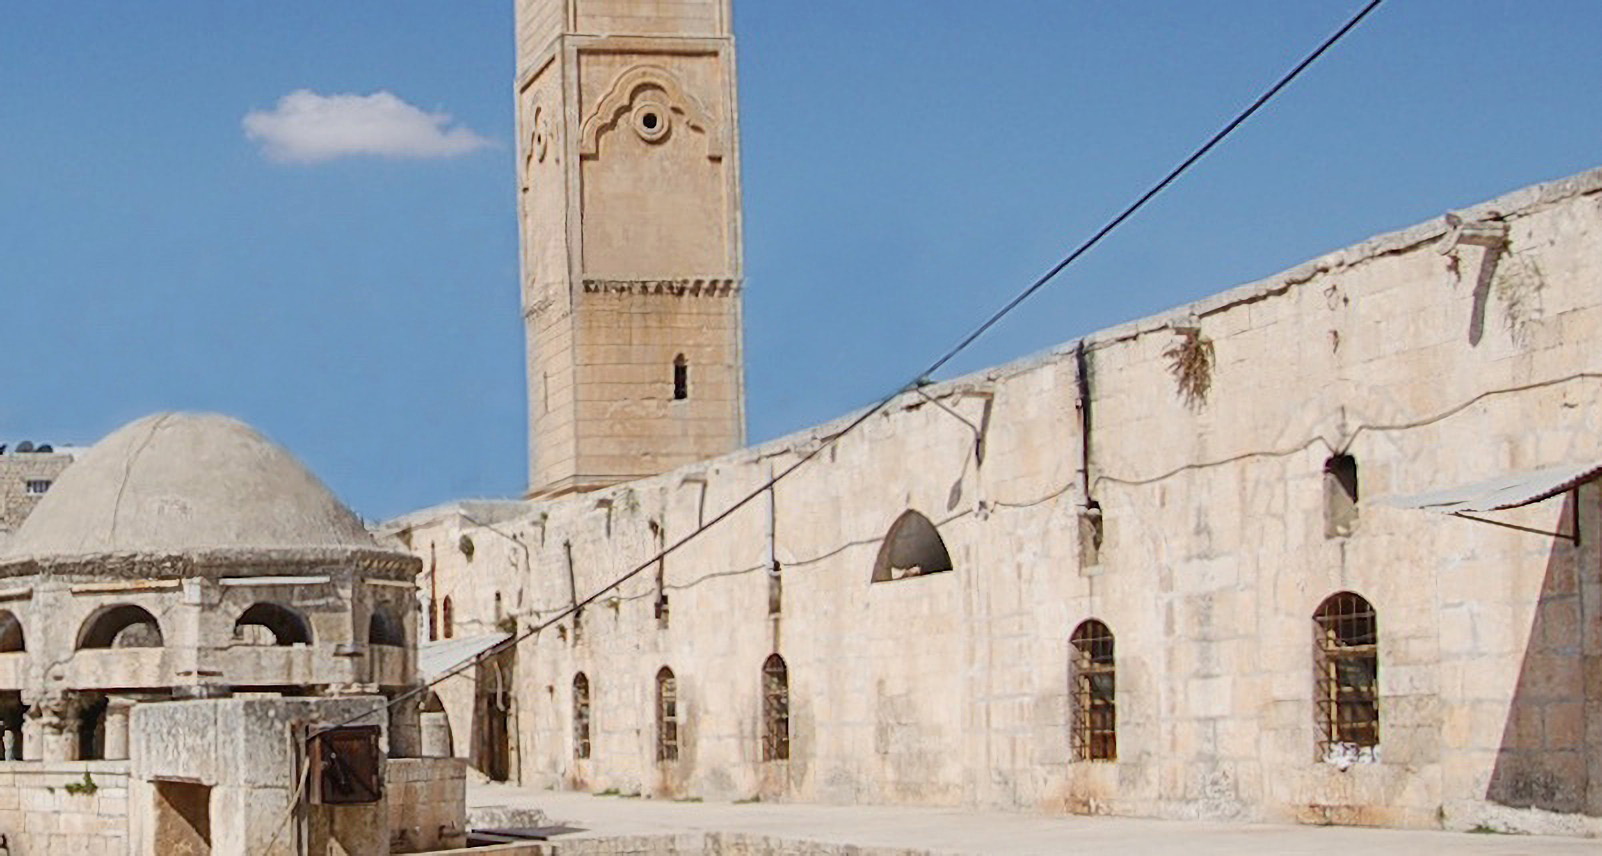
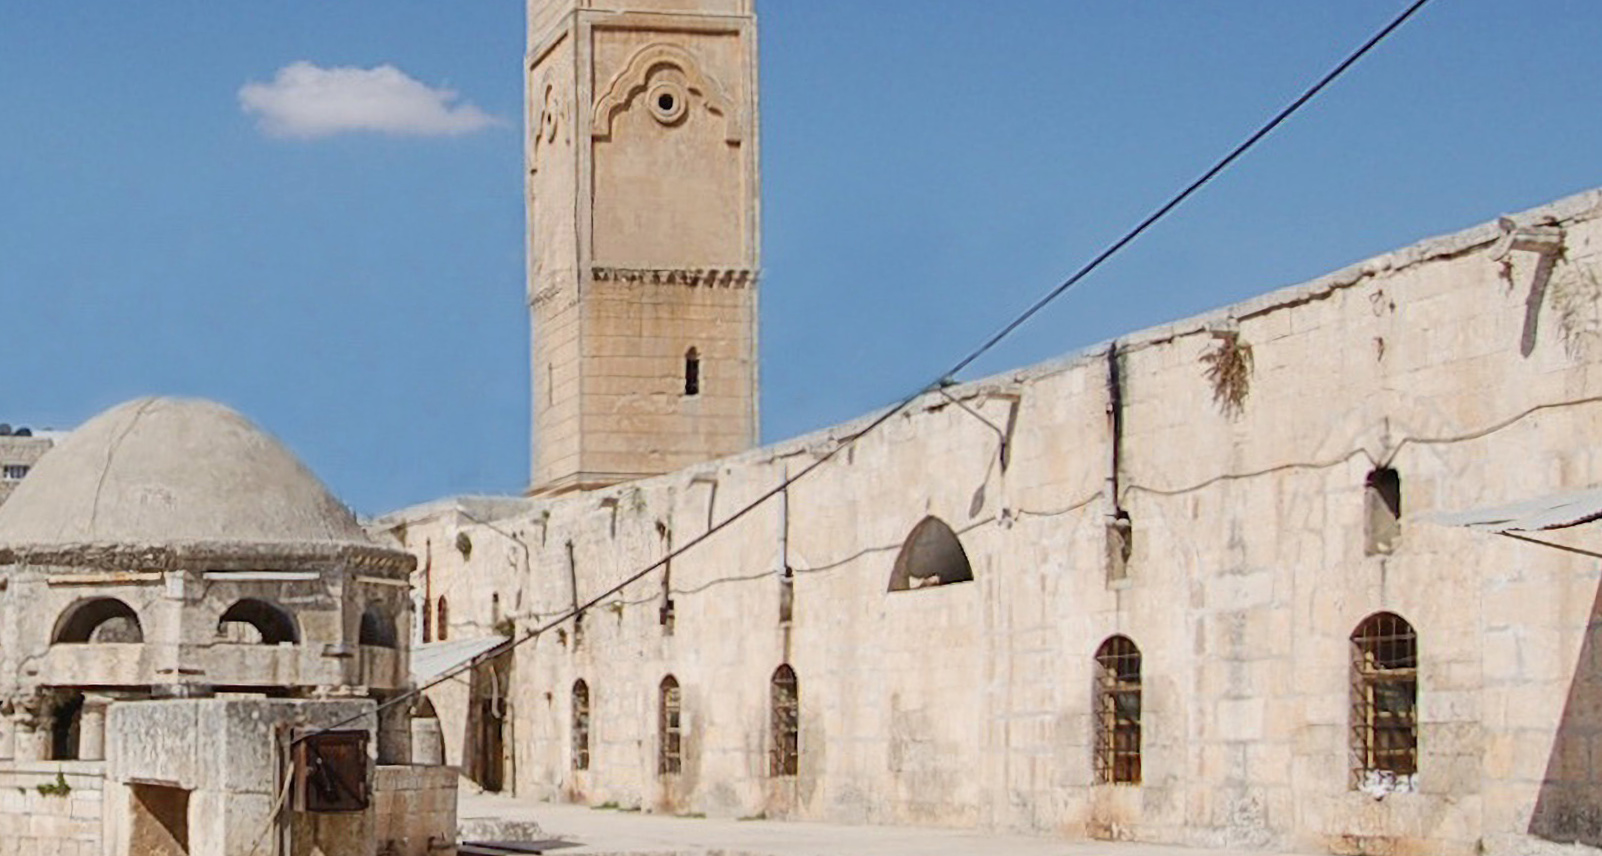
syria-bread

Changed region(s): [[0.0, 0.0, 1.0, 1.0], [0.8115, 0.3949, 0.8739, 0.4252]]

diff --git a/public/syria-bread/index.html b/public/syria-bread/index.html
@@ -4,13 +4,13 @@
 	<meta name="viewport" content="width=device-width, initial-scale=1">
 	<meta name="format-detection" content="telephone=no">
 	
-		<title>Baking bread for refugees in Idlib, Syria</title>
-		<meta property="og:title" content="Baking bread for refugees in Idlib, Syria" />
+		<title>A bakery for refugee families in Idlib, Syria</title>
+		<meta property="og:title" content="A bakery for refugee families in Idlib, Syria" />
 		<meta name="description" content="Little Giving">
 		<meta property="og:description" content="Little Giving">
 		
 		
-		<meta property="og:image" content="/syria-bread/header_hudf06e25bc816f06257925d3bae0121cd_292649_1600x500_fill_q75_box_smart1.jpg">
+		<meta property="og:image" content="/syria-bread/header_hu45080e4ce1655aeb224eadedf9ea1029_385446_1600x500_fill_q75_box_smart1.jpg">
 		
 	
 	<link rel="shortcut icon" href="https://www.littlegiving.org/static/favicon.ico">
@@ -51,19 +51,19 @@
 				
 				
 				<div class="pb-5 mt-2">
-					<img style="border-radius:0.35em" src="https://journal.littlegiving.org/syria-bread/header_hudf06e25bc816f06257925d3bae0121cd_292649_1600x800_fill_q75_box_smart1.jpg">
-					<p class="is-size-5 has-text-grey mt-2">Image: Courtyard of the Great Mosque of Maarat al-Numan, Idlib Governorate</p>
+					<img style="border-radius:0.35em" src="https://journal.littlegiving.org/syria-bread/header_hu45080e4ce1655aeb224eadedf9ea1029_385446_1600x800_fill_q75_box_smart1.jpg">
+					<p class="is-size-5 has-text-grey mt-2">Image: Courtyard of the Great Mosque of Maarat al-Numan in Idlib</p>
 				</div>
 				
 
 				<h2 class="mt-6 pt-1 mb-2">
-					Baking bread for refugees in Idlib, Syria
+					A bakery for refugee families in Idlib, Syria
 				</h2>
 				<p class="mb-6">
 					Little Giving Journal, February 2023 · 3 minute read
 				</p>
 				<p>Over the past two years, Ummah Welfare Trust (UWT) have facilitated daily bread distribution in Syria for Little Giving users.</p>
-<p>Since May 2021, the charity have run a bakery in Idlib, distributing packs of bread to 6,200 families (about 30,000 people), six days a week. Little Giving users made up about 4% of that figure (about 250 families).</p>
+<p>The charity have run a bakery in Idlib, distributing packs of bread to 6,200 families (about 30,000 people), six days a week. Little Giving users made up about 4% of that figure (about 250 families).</p>
 <p>Recipients were mainly refugees living in camps or temporary shelter in Idlib and the surrounding areas. The project ran until November 2022.</p>
 <p>
 <div class="my-6">
@@ -75,8 +75,8 @@
 <p>
 <div class="my-6">
 	
-	<img style="border-radius:0.35em" src="https://journal.littlegiving.org/syria-bread/b_hu57014de933f883866306223deaa67171_251253_1600x800_fill_q75_box_smart1.jpg" alt="Baked bread comes out of the oven on a conveyor belt for cooling and packaging" />
-	<p class="is-size-5 has-text-grey mt-2">Image: Baked bread comes out of the oven on a conveyor belt for cooling and packaging</p>
+	<img style="border-radius:0.35em" src="https://journal.littlegiving.org/syria-bread/b_hu57014de933f883866306223deaa67171_251253_1600x800_fill_q75_box_smart1.jpg" alt="Baked bread comes out of the oven on a conveyor belt for cooling and packing" />
+	<p class="is-size-5 has-text-grey mt-2">Image: Baked bread comes out of the oven on a conveyor belt for cooling and packing</p>
 </div>
 </p>
 <p>

diff --git a/public/index.html b/public/index.html
@@ -60,12 +60,12 @@
                     
                     
                     <div class="card-image">
-                        <img src="https://journal.littlegiving.org/syria-bread/header_hudf06e25bc816f06257925d3bae0121cd_292649_1600x500_fill_q75_box_smart1.jpg">
+                        <img src="https://journal.littlegiving.org/syria-bread/header_hu45080e4ce1655aeb224eadedf9ea1029_385446_1600x500_fill_q75_box_smart1.jpg">
                     </div>
                     
                     <div class="card-content pt-4">
                         <div class="content">
-                            <p class="subtitle mb-2 is-size-4 has-text-weight-semibold">Baking bread for refugees in Idlib, Syria</p>
+                            <p class="subtitle mb-2 is-size-4 has-text-weight-semibold">A bakery for refugee families in Idlib, Syria</p>
                             <p class="subtitle">February 2023</p>
                         </div>
                     </div>

diff --git a/content/posts/syria-bread/index.md b/content/posts/syria-bread/index.md
@@ -5,7 +5,6 @@ date: 2023-02-10T00:00:00+00:00
 caption: "Courtyard of the Great Mosque of Maarat al-Numan in Idlib"
 ---
 
-
 Over the past two years, Ummah Welfare Trust (UWT) have facilitated daily bread distribution in Syria for Little Giving users.
 
 The charity have run a bakery in Idlib, distributing packs of bread to 6,200 families (about 30,000 people), six days a week. Little Giving users made up about 4% of that figure (about 250 families).
